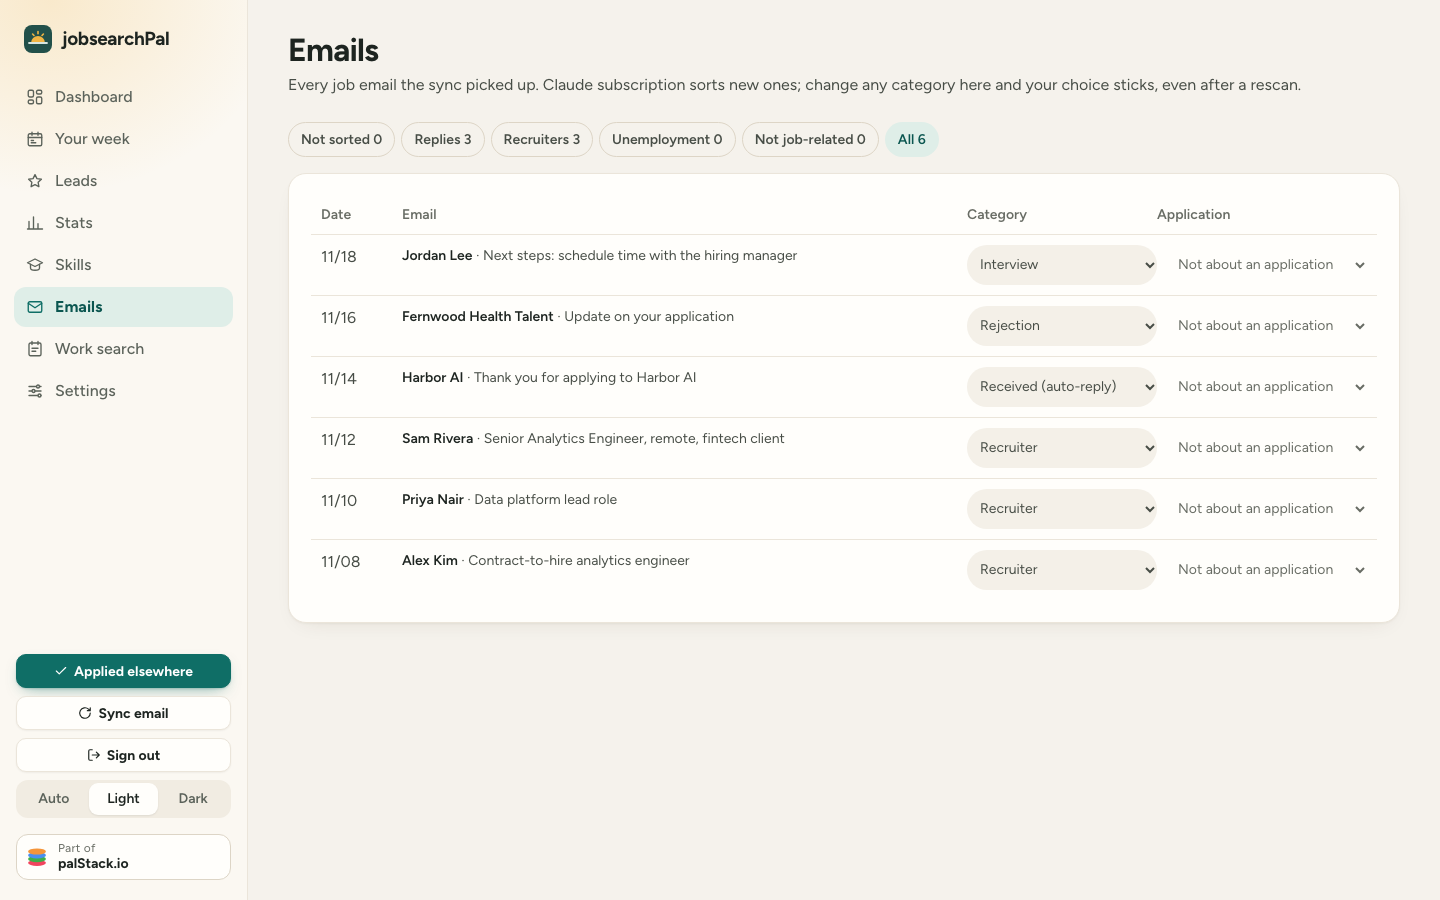
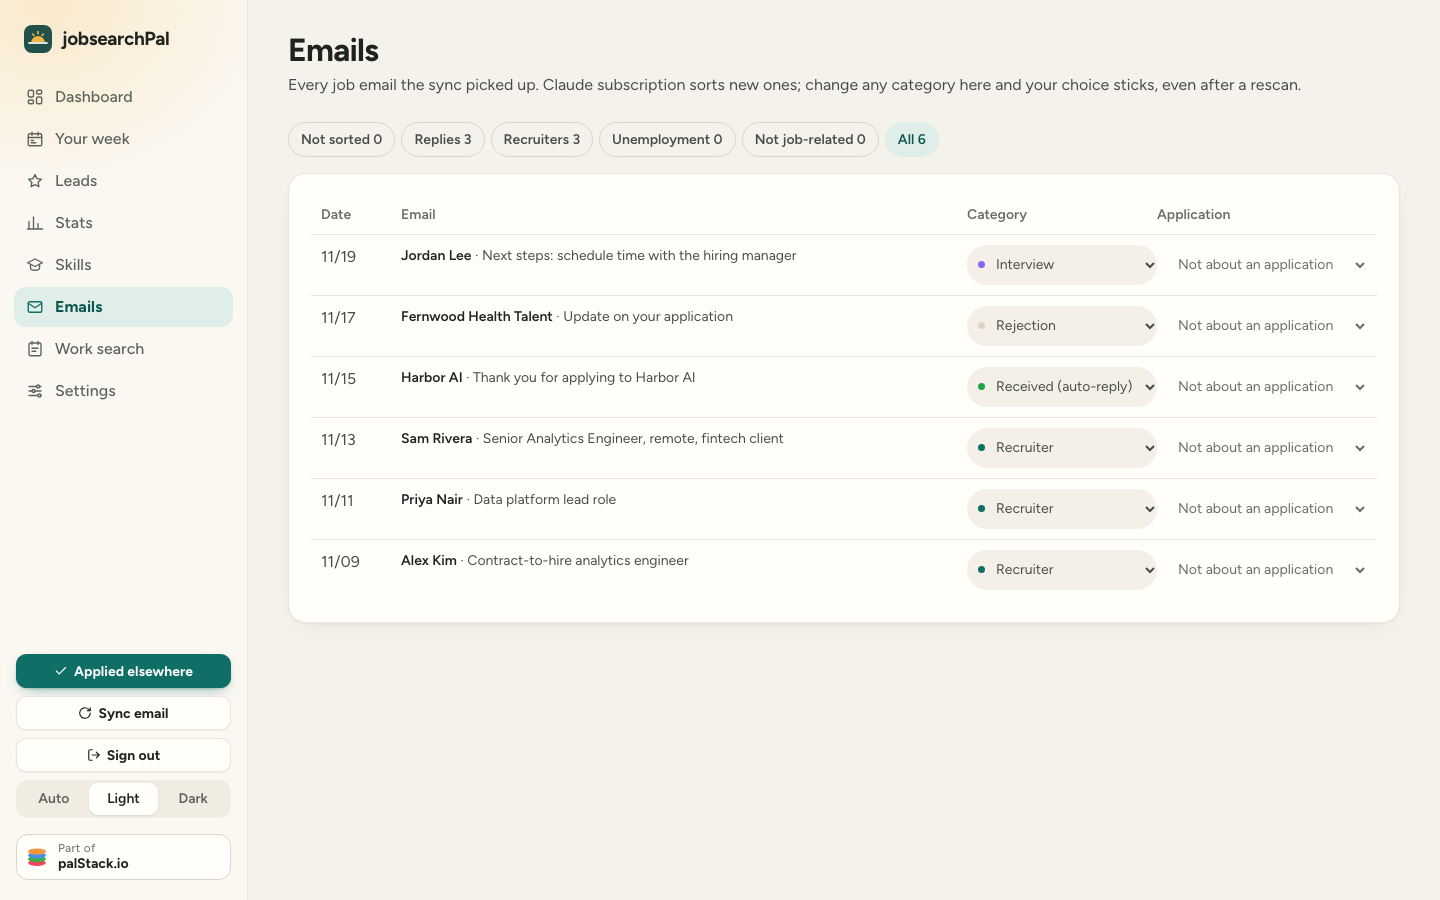
Work search in four tabs, a neutral Closed in the weekly log, a dot per email category
Work search was ~3,100 px: Weekly log, Claim and deadlines, People and the state's rule are now tabs (the
Stats pattern), each about one screen; links to #people, #claim, #tasks and #rule open their tab, and the
page's own redirects keep the tab. The weekly log said a red "Rejected"; it now reads a neutral "Closed",
as everywhere else. Emails get a coloured dot per category, the dashboard's colours. Settings and the job
page were checked at 390 px and need nothing.

diff --git a/autoapply/templates/dua.html b/autoapply/templates/dua.html
@@ -16,21 +16,28 @@
   {% else %}<div class="lbl">Next deadline</div><div class="sub">None yet. Add seminars, RESEA meetings or documents below.</div>{% endif %}
   {% if cur %}<a class="btn sm" href="/dua/{{ cur.start.isoformat() }}.zip">Download this week's proof</a>{% endif %}</div>
 </section>
-{% if rule %}<section class="card" style="margin-bottom:16px"><h2><span>{{ rule.name }}'s rule</span>
-  <span class="pill {{ 'rejected' if rule.confidence == 'low' else ('submitted' if rule.source == 'official' else 'waiting') }}" style="text-transform:none">{% if rule.confidence == 'low' %}not confirmed · {% endif %}checked {{ rule.checked }}</span></h2>
- {% if rule.agency %}<p class="muted" style="margin:-6px 0 8px;font-size:14px">{{ rule.agency }}</p>{% endif %}
- <p style="margin:0 0 6px">{% if rule.weekly_minimum is not none %}<b>{{ rule.weekly_minimum }} a week.</b>{% elif rule.varies %}<b>The number is set for each claimant.</b>{% else %}<b>No set number.</b>{% endif %} {{ rule.rule.rstrip('. ') }}.</p>
- {% if rule.report %}<p class="ink2" style="margin:0 0 6px">How it's reported: {{ rule.report.rstrip('. ') }}.</p>{% endif %}
- {% if rule.minimum_note %}<p class="ink2" style="margin:0 0 6px">{{ rule.minimum_note }}</p>{% endif %}
- {% if rule.must_register %}<p class="ink2" style="margin:0 0 6px"><b>Register:</b> {{ rule.must_register }}</p>{% endif %}
- {% if rule.keep_records %}<p class="ink2" style="margin:0 0 6px"><b>Keep your log:</b> {{ rule.keep_records }}</p>{% endif %}
- {% if rule.exemptions %}<p class="ink2" style="margin:0 0 6px"><b>Usually excused:</b> {{ rule.exemptions|join('; ') if rule.exemptions is not string else rule.exemptions }}</p>{% endif %}
- {% if rule.weekly_benefit or rule.max_weeks %}<p class="ink2" style="margin:0 0 6px"><b>Benefits:</b> {% if rule.weekly_benefit %}{{ rule.weekly_benefit }} a week{% endif %}{% if rule.weekly_benefit and rule.max_weeks %}, {% endif %}{% if rule.max_weeks %}up to {{ rule.max_weeks }} weeks{% endif %}.</p>{% endif %}
- {% if rule.waiting_week %}<p class="ink2" style="margin:0 0 6px"><b>Waiting week:</b> {{ rule.waiting_week_note or "the first week of a claim is unpaid" }}{% if not (rule.waiting_week_note or '').endswith('.') %}.{% endif %}</p>{% endif %}
- {% if rule.part_time_earnings_allowed %}<p class="ink2" style="margin:0 0 6px"><b>Part-time work:</b> you can earn up to {{ rule.part_time_earnings_allowed }} in a week before your benefit is reduced. Report it for the week you worked.</p>{% endif %}
- <p class="muted" style="margin:0;font-size:14px">Rules change{% if rule.source != 'official' %}, and this one comes from a summary, not the agency's own site{% elif rule.confidence == 'low' %}, and this one couldn't be confirmed on the agency's site{% elif rule.confidence == 'medium' %}, and the agency gives no exact number online{% endif %}. Your agency's letters to you are what counts.
-  <a href="{{ rule.url }}" target="_blank" rel="noopener">Check the official rules</a>. This page counts toward {{ floor }} a week; change it on <a href="/setup#interests">Setup</a>.</p></section>
-{% elif floor %}<p class="muted" style="margin:0 0 14px">Collecting unemployment? Pick your state on <a href="/setup#ws_state">Setup</a> to see its work-search rule.</p>{% endif %}
+{% macro week_card(w, first) %}<section class="card {% if not first %}mt{% endif %}">
+ <h2><span>{{ w.start.strftime("%b %-d") }} – {{ w.end.strftime("%b %-d, %Y") }}{% if w.current %} <span class="pill filled" style="margin-left:6px">this week</span>{% endif %}
+   <span class="pill {{ 'submitted' if w.count >= floor else 'waiting' }}" style="margin-left:6px">{{ w.count }} / {{ floor }} activities</span></span>
+  <a class="btn sm" href="/dua/{{ w.start.isoformat() }}.zip">Download proof (.zip)</a></h2>
+ <table><thead><tr><th>Date</th><th class="hide-sm">Activity</th><th>Company</th><th class="hide-sm">Position</th><th>Result</th><th>Proof</th></tr></thead><tbody>
+ {% for r in w.rows %}<tr><td class="ink2" style="white-space:nowrap">{{ r.date.strftime("%a %-m/%-d") }}</td><td class="hide-sm">{{ r.type }}{% if not r.counts %} <span class="muted">(not counted)</span>{% endif %}</td>
+  <td><b style="font-weight:600">{{ co(r.company) }}</b></td><td class="hide-sm ink2">{{ r.position }}</td><td><span class="pill {{ r.result|lower|pillcls }}" style="text-transform:none">{{ (r.result|lower|label)|capitalize }}</span></td>
+  <td>{% for p in r.proof %}<a href="/proof/{{ w.start.isoformat() }}/{{ p.split('/')[-1] }}" target="_blank">{{ 'screenshot' if p.endswith('.png') else 'email' }}</a>{% if not loop.last %}, {% endif %}{% else %}<span class="muted" title="No saved email or screenshot for this one">—</span>{% endfor %}</td></tr>{% endfor %}
+ </tbody></table></section>{% endmacro %}
+{# Four tabs, each about one screen (11/19): the page was ~3,100 px. Every panel is in the page; the script only switches
+   which one shows. A link to #people, #claim, #tasks, #letters or #rule opens that panel. #}
+{% set ws_tabs = [('log', 'Weekly log'), ('claim', 'Claim and deadlines'), ('people', 'People'), ('rule', ws_rule_label)] %}
+<div class="st-tabs" role="tablist" aria-label="{{ ws_label }} sections">
+ {% for k, label in ws_tabs %}<a role="tab" id="t-{{ k }}" href="?tab={{ k }}" aria-controls="p-{{ k }}" aria-selected="{{ 'true' if k == tab else 'false' }}" data-tab="{{ k }}">{{ label }}</a>{% endfor %}
+ <span class="st-ind" aria-hidden="true"></span>
+</div>
+<div class="st-pane" role="tabpanel" id="p-log" aria-labelledby="t-log" {% if tab != 'log' %}hidden{% endif %}>
+
+{% for w in weeks[:4] %}{{ week_card(w, loop.first) }}{% else %}<p class="empty">Your log fills itself as you apply, talk to recruiters and interview. You don't have to write any of it down.</p>{% endfor %}
+{% if weeks|length > 4 %}<details class="older"><summary>Show {{ weeks|length - 4 }} older weeks</summary>{% for w in weeks[4:] %}{{ week_card(w, false) }}{% endfor %}</details>{% endif %}
+</div>
+<div class="st-pane" role="tabpanel" id="p-claim" aria-labelledby="t-claim" {% if tab != 'claim' %}hidden{% endif %}>
 <div class="grid g2 benefits">
 <section class="card" id="claim"><h2><span>Your claim</span>{% if runway %}<span class="count">week {{ runway.week_no }}</span>{% endif %}</h2>
  {% if runway %}<div class="runway"><div class="num">{{ runway.left }}<small> of {{ runway.allowed }} weeks left</small></div>
@@ -73,7 +80,8 @@
  {% for e in letters[:5] %}{{ letter_row(e) }}{% else %}<p class="muted" style="margin:0;font-size:14px">None yet. Letters from your state's unemployment agency or career center show up here after an email sync.</p>{% endfor %}
  {% if letters|length > 5 %}<details class="more-letters"><summary>Show all {{ letters|length }}</summary>{% for e in letters[5:] %}{{ letter_row(e) }}{% endfor %}</details>{% endif %}
 </section>
-
+</div>
+<div class="st-pane" role="tabpanel" id="p-people" aria-labelledby="t-people" {% if tab != 'people' %}hidden{% endif %}>
 <section class="card people" id="people" aria-labelledby="people-h"><h2 id="people-h"><span>People you've been in touch with</span><span class="count">{{ people|length }}</span></h2>
  <p class="ink2 lead">A short note to a former colleague or a friend of a friend is real search work. Each one goes in your log as a networking contact{% if not contacts_count %}, not counted toward your weekly number unless you turn that on below{% endif %}.</p>
  <form method="post" action="/contacts" class="add-person la-kit"><input type="hidden" name="action" value="add">
@@ -102,10 +110,27 @@
   <noscript><button class="btn sm ghost">Save</button></noscript>
   <span class="muted">Off until you turn it on. Many states accept networking and contacting employers; some don't.{% if rule %} Check {{ rule.name }}'s rule above.{% endif %} Your agency's notice is what counts.</span></form>
 </section>
-
-<details class="card mt help-box"><summary><h2 style="margin:0">Help you're entitled to, that people often miss</h2><span class="muted">taxes, waiting week, severance, RESEA, health coverage, SNAP, 211, legal aid</span></summary>
+</div>
+<div class="st-pane" role="tabpanel" id="p-rule" aria-labelledby="t-rule" {% if tab != 'rule' %}hidden{% endif %}>
+{% if rule %}<section class="card" id="rule" style="margin-bottom:16px"><h2><span>{{ rule.name }}'s rule</span>
+  <span class="pill {{ 'rejected' if rule.confidence == 'low' else ('submitted' if rule.source == 'official' else 'waiting') }}" style="text-transform:none">{% if rule.confidence == 'low' %}not confirmed · {% endif %}checked {{ rule.checked }}</span></h2>
+ {% if rule.agency %}<p class="muted" style="margin:-6px 0 8px;font-size:14px">{{ rule.agency }}</p>{% endif %}
+ <p style="margin:0 0 6px">{% if rule.weekly_minimum is not none %}<b>{{ rule.weekly_minimum }} a week.</b>{% elif rule.varies %}<b>The number is set for each claimant.</b>{% else %}<b>No set number.</b>{% endif %} {{ rule.rule.rstrip('. ') }}.</p>
+ {% if rule.report %}<p class="ink2" style="margin:0 0 6px">How it's reported: {{ rule.report.rstrip('. ') }}.</p>{% endif %}
+ {% if rule.minimum_note %}<p class="ink2" style="margin:0 0 6px">{{ rule.minimum_note }}</p>{% endif %}
+ {% if rule.must_register %}<p class="ink2" style="margin:0 0 6px"><b>Register:</b> {{ rule.must_register }}</p>{% endif %}
+ {% if rule.keep_records %}<p class="ink2" style="margin:0 0 6px"><b>Keep your log:</b> {{ rule.keep_records }}</p>{% endif %}
+ {% if rule.exemptions %}<p class="ink2" style="margin:0 0 6px"><b>Usually excused:</b> {{ rule.exemptions|join('; ') if rule.exemptions is not string else rule.exemptions }}</p>{% endif %}
+ {% if rule.weekly_benefit or rule.max_weeks %}<p class="ink2" style="margin:0 0 6px"><b>Benefits:</b> {% if rule.weekly_benefit %}{{ rule.weekly_benefit }} a week{% endif %}{% if rule.weekly_benefit and rule.max_weeks %}, {% endif %}{% if rule.max_weeks %}up to {{ rule.max_weeks }} weeks{% endif %}.</p>{% endif %}
+ {% if rule.waiting_week %}<p class="ink2" style="margin:0 0 6px"><b>Waiting week:</b> {{ rule.waiting_week_note or "the first week of a claim is unpaid" }}{% if not (rule.waiting_week_note or '').endswith('.') %}.{% endif %}</p>{% endif %}
+ {% if rule.part_time_earnings_allowed %}<p class="ink2" style="margin:0 0 6px"><b>Part-time work:</b> you can earn up to {{ rule.part_time_earnings_allowed }} in a week before your benefit is reduced. Report it for the week you worked.</p>{% endif %}
+ <p class="muted" style="margin:0;font-size:14px">Rules change{% if rule.source != 'official' %}, and this one comes from a summary, not the agency's own site{% elif rule.confidence == 'low' %}, and this one couldn't be confirmed on the agency's site{% elif rule.confidence == 'medium' %}, and the agency gives no exact number online{% endif %}. Your agency's letters to you are what counts.
+  <a href="{{ rule.url }}" target="_blank" rel="noopener">Check the official rules</a>. This page counts toward {{ floor }} a week; change it on <a href="/setup#interests">Setup</a>.</p></section>
+{% elif floor %}<p class="muted" style="margin:0 0 14px">Collecting unemployment? Pick your state on <a href="/setup#ws_state">Setup</a> to see its work-search rule.</p>{% endif %}
+<details class="card help-box"><summary><h2 style="margin:0">Help you're entitled to, that people often miss</h2><span class="muted">taxes, waiting week, severance, RESEA, health coverage, SNAP, 211, legal aid</span></summary>
  {% if general %}<ul class="general">{% for g in general %}<li>{{ g }}</li>{% endfor %}</ul>{% endif %}
  <div class="grid g3 res" style="margin-top:12px">{% for name, what, url in resources %}<a class="res-item" href="{{ url }}" target="_blank" rel="noopener"><b>{{ name }}</b><span>{{ what }}</span></a>{% endfor %}</div></details>
+</div>
 <style>.thisweek{display:flex;gap:24px;align-items:stretch;margin-bottom:16px;border-color:color-mix(in srgb,var(--sun) 55%,var(--line));box-shadow:var(--shadow-lg)}
 .thisweek .tw-main{flex:1.4;min-width:0}.thisweek .tw-side{flex:1;min-width:0;display:flex;flex-direction:column;gap:4px;align-items:flex-start;border-left:1px solid var(--line);padding-left:24px}
 .thisweek .lbl{font-size:15px;font-weight:700;color:var(--ink-2)}.thisweek .num{font-size:40px;line-height:1.1;font-weight:700;margin:2px 0 6px;font-variant-numeric:tabular-nums}
@@ -133,16 +158,23 @@
 .add-person .acts{margin:0}.people-list{margin-top:12px}.people-list li{display:flex;gap:10px;align-items:center}.people-list li>div{flex:1}.people-list form{margin:0}
 .counts-form{display:grid;gap:4px;margin-top:12px;font-size: 14px}.counts-form .muted{font-size: 14px}
 .res-item span{font-size:14px;color:var(--ink-2)}</style>
-{% macro week_card(w, first) %}<section class="card {% if not first %}mt{% endif %}">
- <h2><span>{{ w.start.strftime("%b %-d") }} – {{ w.end.strftime("%b %-d, %Y") }}{% if w.current %} <span class="pill filled" style="margin-left:6px">this week</span>{% endif %}
-   <span class="pill {{ 'submitted' if w.count >= floor else 'waiting' }}" style="margin-left:6px">{{ w.count }} / {{ floor }} activities</span></span>
-  <a class="btn sm" href="/dua/{{ w.start.isoformat() }}.zip">Download proof (.zip)</a></h2>
- <table><thead><tr><th>Date</th><th class="hide-sm">Activity</th><th>Company</th><th class="hide-sm">Position</th><th>Result</th><th>Proof</th></tr></thead><tbody>
- {% for r in w.rows %}<tr><td class="ink2" style="white-space:nowrap">{{ r.date.strftime("%a %-m/%-d") }}</td><td class="hide-sm">{{ r.type }}{% if not r.counts %} <span class="muted">(not counted)</span>{% endif %}</td>
-  <td><b style="font-weight:600">{{ co(r.company) }}</b></td><td class="hide-sm ink2">{{ r.position }}</td><td><span class="pill {{ r.result|lower }}">{{ r.result }}</span></td>
-  <td>{% for p in r.proof %}<a href="/proof/{{ w.start.isoformat() }}/{{ p.split('/')[-1] }}" target="_blank">{{ 'screenshot' if p.endswith('.png') else 'email' }}</a>{% if not loop.last %}, {% endif %}{% else %}<span class="muted" title="No saved email or screenshot for this one">—</span>{% endfor %}</td></tr>{% endfor %}
- </tbody></table></section>{% endmacro %}
-<h2 class="section-h">Weekly log</h2>
-{% for w in weeks[:4] %}{{ week_card(w, loop.first) }}{% else %}<p class="empty">Your log fills itself as you apply, talk to recruiters and interview. You don't have to write any of it down.</p>{% endfor %}
-{% if weeks|length > 4 %}<details class="older"><summary>Show {{ weeks|length - 4 }} older weeks</summary>{% for w in weeks[4:] %}{{ week_card(w, false) }}{% endfor %}</details>{% endif %}
+<style>
+.st-tabs{display:flex;position:relative;border-bottom:1px solid var(--line-2);margin:0 0 18px;overflow-x:auto;scrollbar-width:none}
+.st-tabs a{flex:none;min-width:116px;text-align:center;padding:10px 14px;font-size:14px;font-weight:600;color:var(--ink-3);transition:color 150ms var(--ease-out)}
+.st-tabs a:hover{text-decoration:none;color:var(--ink)}.st-tabs a[aria-selected=true]{color:var(--ink)}
+.st-ind{position:absolute;left:0;bottom:-1px;height:2px;background:var(--accent);width:var(--w,116px);transform:translateX(var(--x,0));transition:transform 280ms cubic-bezier(.77,0,.175,1),width 280ms cubic-bezier(.77,0,.175,1)}
+.st-pane{animation:st-in 240ms var(--ease-out) backwards}@keyframes st-in{from{opacity:0;transform:translateY(6px)}}
+@media (max-width:640px){.st-tabs{-webkit-mask-image:linear-gradient(to right,#000 88%,transparent)}}
+@media (prefers-reduced-motion:reduce){.st-pane{animation-name:st-fade}.st-ind{transition:none}@keyframes st-fade{from{opacity:0}}}
+</style>
+<script>(()=>{const bar=document.querySelector(".st-tabs");if(!bar)return;const ind=bar.querySelector(".st-ind"),tabs=[...bar.querySelectorAll("[data-tab]")];
+ const place=t=>{ind.style.setProperty("--x",t.offsetLeft+"px");ind.style.setProperty("--w",t.offsetWidth+"px")};
+ const show=(t,keep)=>{tabs.forEach(x=>{const on=x===t;x.setAttribute("aria-selected",on);document.getElementById("p-"+x.dataset.tab).hidden=!on});place(t);
+  if(!keep){const u=new URL(location.href);u.searchParams.set("tab",t.dataset.tab);u.hash="";history.replaceState(null,"",u)}};
+ const h=location.hash&&document.querySelector(location.hash.replace(/[^#\w-]/g,""));const pane=h&&h.closest(".st-pane");
+ const start=pane?tabs.find(t=>"p-"+t.dataset.tab===pane.id):(tabs.find(t=>t.getAttribute("aria-selected")==="true")||tabs[0]);
+ show(start,true);if(pane)requestAnimationFrame(()=>h.scrollIntoView({block:"start"}));
+ tabs.forEach(t=>t.addEventListener("click",e=>{if(e.metaKey||e.ctrlKey)return;e.preventDefault();show(t)}));
+ bar.addEventListener("keydown",e=>{const i=tabs.findIndex(t=>t.getAttribute("aria-selected")==="true");const j=e.key==="ArrowRight"?i+1:e.key==="ArrowLeft"?i-1:-9;
+  if(tabs[j]){e.preventDefault();show(tabs[j]);tabs[j].focus()}})})();</script>
 {% endblock %}

diff --git a/autoapply/templates/index.html b/autoapply/templates/index.html
@@ -99,13 +99,13 @@ html.intro .welcome-t{animation:hero-up .8s var(--ease-out) backwards}
   <div class="body"><div class="t">{{ co(j.company) }} · {{ j.title }}</div>
    <div class="m">{{ j.location or "Location not listed" }}{% if j.pay %} · {{ j.pay }}{% endif %}{% if j.error %} · <span style="color:var(--bad)">{{ j.error|truncate(80) }}</span>{% endif %}</div>
    {% if j.skill_line %}<div class="m skillm">{{ j.skill_line }}</div>{% endif %}
-   <div class="m"><a class="know" href="/dua?company={{ co(j.company)|striptags|trim|urlencode }}#people">Anyone you know there?</a></div></div>
+   <div class="m"><a class="know" href="/dua?tab=people&company={{ co(j.company)|striptags|trim|urlencode }}#people">Anyone you know there?</a></div></div>
   <div class="acts">{{ decline(j) }}{{ applied_btn(j.company, j.title, j.apply_url or j.url, "/#ready-h") }}<a class="btn sm" href="/job/{{ j.id|urlencode }}">Review</a></div></div>
  {% endfor %}{% endif %}
  {% if shortlist %}<div class="group-h"><b>Shortlist</b><span>Good matches from today's search, not tailored yet. Prepare the ones you want, decline the rest.</span></div>
  {% for j in shortlist %}<div class="ready short"><div class="avatar todo-av" style="--h:{{ j.company|hue }}" aria-hidden="true">{{ (j.company or '?')[:1]|upper }}</div>
   <div class="body"><div class="t">{{ co(j.company) }} · {{ j.title }}</div>
-   <div class="m">{{ j.location or "Location not listed" }}{% if j.pay %} · {{ j.pay }}{% endif %}{% if j.why %} · {{ j.why|truncate(90) }}{% endif %} · <a href="/job/{{ j.id|urlencode }}">details</a> · <a class="know" href="/dua?company={{ co(j.company)|striptags|trim|urlencode }}#people">anyone you know there?</a></div>
+   <div class="m">{{ j.location or "Location not listed" }}{% if j.pay %} · {{ j.pay }}{% endif %}{% if j.why %} · {{ j.why|truncate(90) }}{% endif %} · <a href="/job/{{ j.id|urlencode }}">details</a> · <a class="know" href="/dua?tab=people&company={{ co(j.company)|striptags|trim|urlencode }}#people">anyone you know there?</a></div>
    {% if j.skill_line %}<div class="m skillm">{{ j.skill_line }}</div>{% endif %}</div>
   <div class="acts">{{ decline(j) }}{{ applied_btn(j.company, j.title, j.apply_url or j.url, "/#ready-h") }}<form method="post" action="/board/add" style="margin:0"><input type="hidden" name="job" value="{{ j.id }}"><input type="hidden" name="back" value="/#ready-h"><button class="btn ghost sm" title="Work it step by step on your board">Add to board</button></form>{% if not running %}<form method="post" action="/prepare/{{ j.id|urlencode }}" class="prepare" data-confirm-title="Prepare: {{ j.company }} · {{ j.title }}" data-confirm-ok="Prepare"
    data-confirm="This runs the agent now: it tailors your resume and cover letter and fills the form.

diff --git a/autoapply/templates/emails.html b/autoapply/templates/emails.html
@@ -19,10 +19,10 @@
     <pre class="body">{{ (e.body or "No text saved for this email.")[:3000] }}</pre></details></td>
   <td colspan="2"><form method="post" action="/emails/{{ e.id|urlencode }}" class="eform">
     <input type="hidden" name="show" value="{{ show }}">
-    <select name="kind" aria-label="Category" onchange="this.form.submit()">
+    <span class="kind k-{{ e.kind if e.reviewed else 'none' }}"><select name="kind" aria-label="Category" onchange="this.form.submit()">
      {% if not e.reviewed %}<option value="" selected>Not sorted{% if e.guess %} ({{ e.guess }}?){% endif %}</option>{% endif %}
      {% for k, label in kinds %}<option value="{{ k }}" {% if e.reviewed and e.kind == k %}selected{% endif %}>{{ label }}</option>{% endfor %}
-    </select>
+    </select></span>
     <select name="job" aria-label="Application" class="hide-sm" onchange="this.form.submit()">
      <option value="none" {% if not e.job_id %}selected{% endif %}>Not about an application</option>
      {% for j in jobs %}<option value="{{ j.id }}" {% if e.job_id == j.id %}selected{% endif %}>{{ co(j.company) }} · {{ j.title|truncate(40) }}</option>{% endfor %}
@@ -41,6 +41,10 @@
 .eform select{border-color:transparent;background-color:var(--surface-2);color:var(--ink-2);border-radius:999px;transition:border-color .15s var(--ease-out),background-color .15s var(--ease-out)}
 .eform select:hover,.eform select:focus-visible{border-color:var(--line-2);background-color:var(--surface);color:var(--ink)}
 .eform select[name="job"]:has(option[value="none"]:checked){color:var(--ink-3);background-color:transparent}
+/* A dot per category, the same colours as the dashboard's replies (11/19); a no is neutral, never red. */
+.kind{position:relative;display:block}.kind::before{content:"";position:absolute;left:11px;top:50%;width:7px;height:7px;margin-top:-3.5px;border-radius:50%;background:var(--ink-3);pointer-events:none}
+.kind select{width:100%;padding-left:24px}.k-interview::before,.k-offer::before{background:var(--violet-dot)}.k-recruiter::before{background:var(--accent)}
+.k-confirmed::before{background:var(--good-dot)}.k-agency::before{background:var(--sun)}.k-none::before{background:var(--warn-dot)}.k-rejected::before,.k-ignored::before{background:var(--line-2)}
 pre.body{white-space:pre-wrap;word-break:break-word;font:inherit;font-size:14px;background:var(--surface-2);border-radius:10px;padding:10px 12px;max-height:320px;overflow:auto;margin:0}
 @media (max-width:640px){.eform{grid-template-columns:minmax(0,1fr)}.emails th:nth-child(3){width:auto}}
 </style>

diff --git a/autoapply/web.py b/autoapply/web.py
@@ -690,7 +690,7 @@ def make_app(settings, db: DB) -> FastAPI:
             coach.delete_contact(db, cid)
         elif action == "counts":
             coach.set_note(db, "ws:count_contacts", counts == "yes")
-        return RedirectResponse("/dua#people", status_code=303)
+        return RedirectResponse("/dua?tab=people#people", status_code=303)
 
     @app.get("/reflect")
     def reflect_page(back: str = ""):
@@ -1788,7 +1788,7 @@ def make_app(settings, db: DB) -> FastAPI:
         return _back(f"{label} works. Job alerts and replies will be read (read-only), and the brief sent from it.", "other-emails")
 
     @app.get("/dua")
-    def dua(company: str = ""):
+    def dua(company: str = "", tab: str = ""):
         from . import benefits
         from . import coach
         rule = my_state(settings)
@@ -1796,13 +1796,15 @@ def make_app(settings, db: DB) -> FastAPI:
                     prefill_company=company[:80], weeks=stats.dua_weeks(db), floor=work_search(settings)[1], rule=rule, nav="work", today=date.today(),
                     claim=benefits.claim(settings), runway=benefits.runway(settings, rule), days=benefits.DAYS,
                     tasks=benefits.tasks(db, include_done=True), resources=benefits.RESOURCES, general=general_notes(),
-                    letters=benefits.letters(db)[:20])
+                    letters=benefits.letters(db)[:20],
+                    tab=tab if tab in ("log", "claim", "people", "rule") else ("people" if company else "log"),
+                    ws_rule_label=(f"{rule['name']}'s rule" if rule else "Your state's rule"))
 
     @app.post("/dua/claim")
     async def dua_claim(request: Request):
         from . import benefits
         benefits.save_claim(settings, dict(await request.form()))
-        return RedirectResponse("/dua#claim", status_code=303)
+        return RedirectResponse("/dua?tab=claim#claim", status_code=303)
 
     @app.post("/dua/task")
     def dua_task(action: str = Form(...), title: str = Form(""), due: str = Form(""), task_id: int = Form(0)):
@@ -1817,7 +1819,7 @@ def make_app(settings, db: DB) -> FastAPI:
             db.conn.commit()
         elif action in ("done", "undo", "delete") and task_id:
             benefits.set_task(db, task_id, done=action == "done" if action != "delete" else None, delete=action == "delete")
-        return RedirectResponse("/dua#tasks", status_code=303)
+        return RedirectResponse("/dua?tab=claim#tasks", status_code=303)
 
     @app.get("/dua/{week}.zip")
     def dua_zip(week: str):

diff --git a/tests/test_coach.py b/tests/test_coach.py
@@ -168,7 +168,7 @@ def test_dashboard_plan_people_and_reflection_flow(tmp_path, db):
     db.update("gh:globex:2", status="filled")
     c = _app(tmp_path, db)
     html = c.get("/").text
-    assert "Before the hard days" in html and "/dua?company=Globex#people" in html
+    assert "Before the hard days" in html and "/dua?tab=people&company=Globex#people" in html
     assert "Your week, in your words" in c.get("/plan").text   # the planner has its own page (JSP-05)
     c.post("/plan", data={"roles": "data roles", "days": ["Mon", "Thu"], "contact": "Sam"})
     html = c.get("/plan").text
